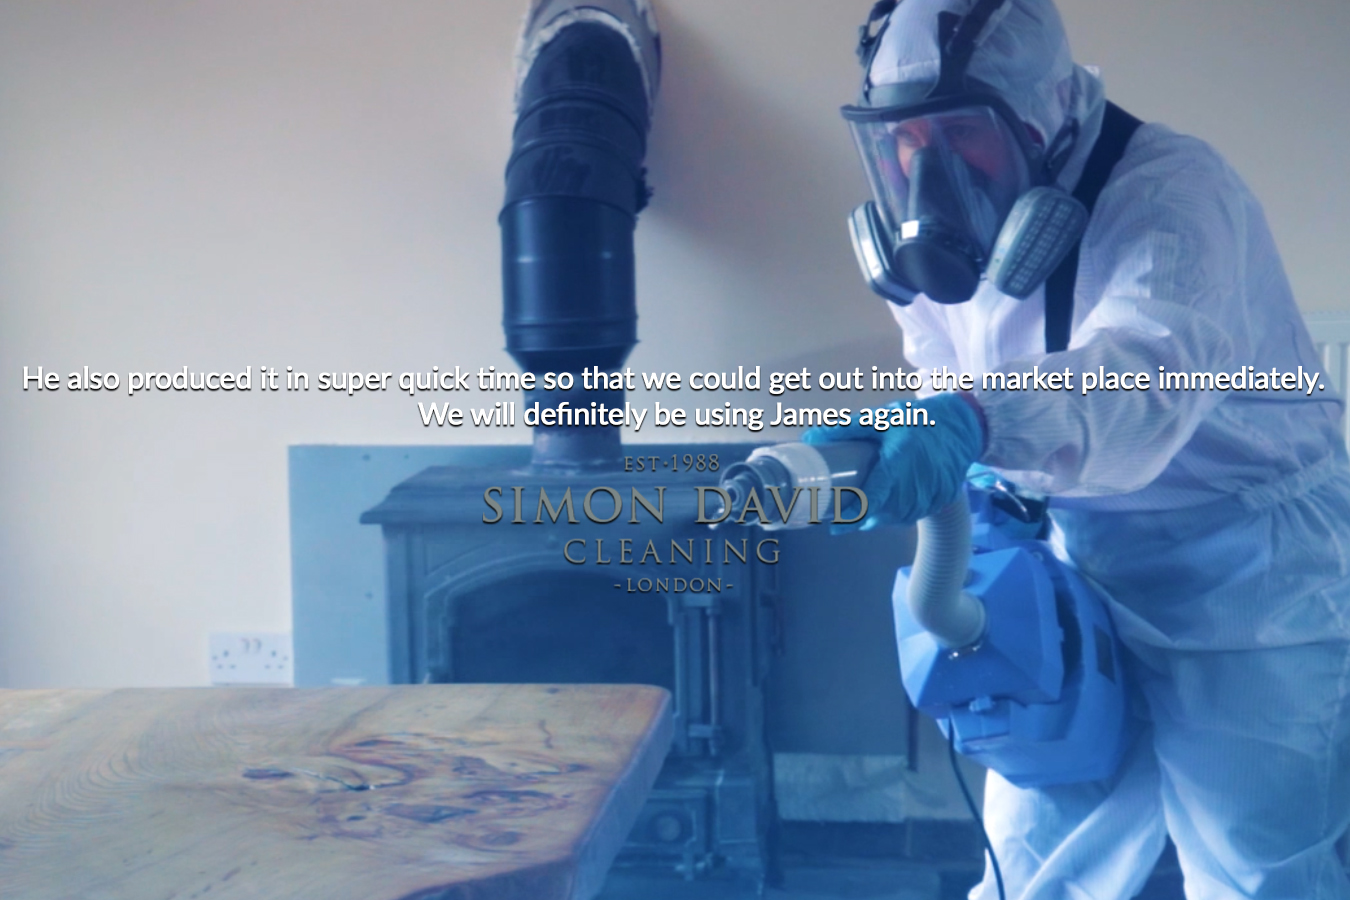
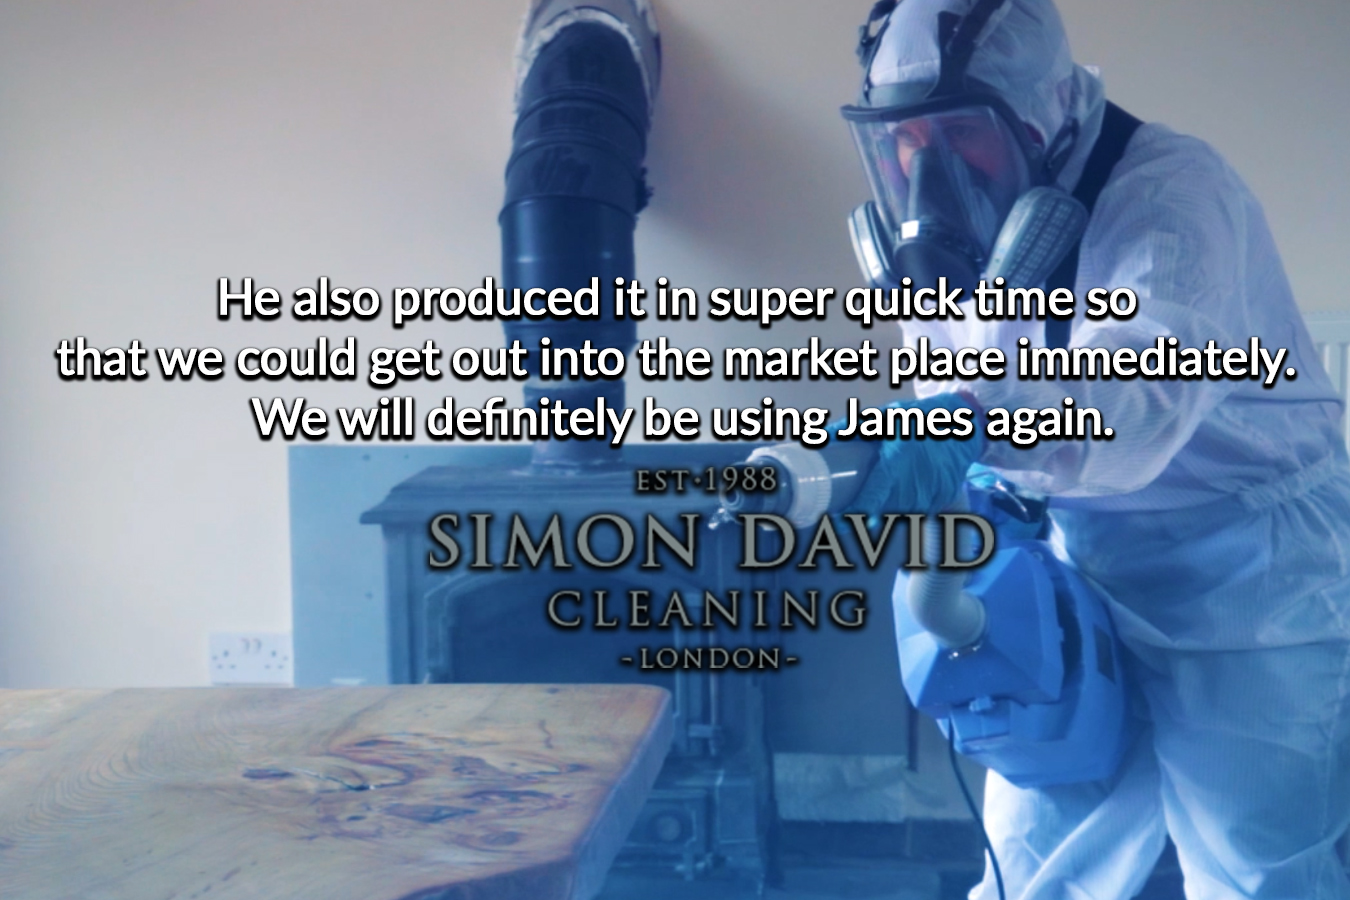
Adjusted about testimonials box to best display the testimonial images.

Changed region(s): [[0.0, 0.3111, 0.9956, 0.7467]]

diff --git a/about.html b/about.html
@@ -134,30 +134,22 @@
 				</div>
 				<div class="col-lg-8 col-md-12">
 					<div class="card" id="testimonials-card">
-						<div class="card-header">
-							<h3>Testimonials</h3>
-						</div>
 						<div class="card-body">
 							<div id="carouselTestimonials" class="carousel slide" data-ride="carousel">
-								<ol class="carousel-indicators">
-									<li data-target="#carouselTestimonials" data-slide-to="0" class="active"></li>
-									<li data-target="#carouselTestimonials" data-slide-to="1"></li>
-									<li data-target="#carouselTestimonials" data-slide-to="2"></li>
-								</ol>
 								<div class="carousel-inner">
 									<div class="carousel-item active" id="simon-david-testimonial">
 										<div>
-											<img src="/assets/images/testimonial1.jpg" class="d-block w-100" alt="">
+											<img src="/assets/images/testimonial1.jpg" class="testimonial-image" alt="">
 										</div>
 									</div>
 									<div class="carousel-item" id="simon-david-testimonial-2">
 										<div>
-											<img src="/assets/images/testimonial2.jpg" class="d-block w-100" alt="">
+											<img src="/assets/images/testimonial2.jpg" class="testimonial-image" alt="">
 										</div>
 									</div>
 									<div class="carousel-item" id="simon-david-testimonial-3">
 										<div>
-											<img src="/assets/images/testimonial3.jpg" class="d-block w-100" alt="">
+											<img src="/assets/images/testimonial3.jpg" class="testimonial-image" alt="">
 										</div>
 									</div>
 								</div>

diff --git a/assets/css/style.css b/assets/css/style.css
@@ -168,14 +168,16 @@ footer p {
     width: auto;
 }
 #carouselTestimonials {
-    height: 20vh;
+    height: 25vh;
 }
 #carouselTestimonials> .carousel-inner {
-    height: 20vh;
+    height: 25vh;
 }
-#simon-david-testimonial {
-    background-image: url (/assets/images/testimonial1.jpg)
-}
+.carousel-item img {
+    height: 25vh;
+    width: auto;
+    display: block;
+    margin: auto;
 }
 /* Contact */
 #contact-me-card {
